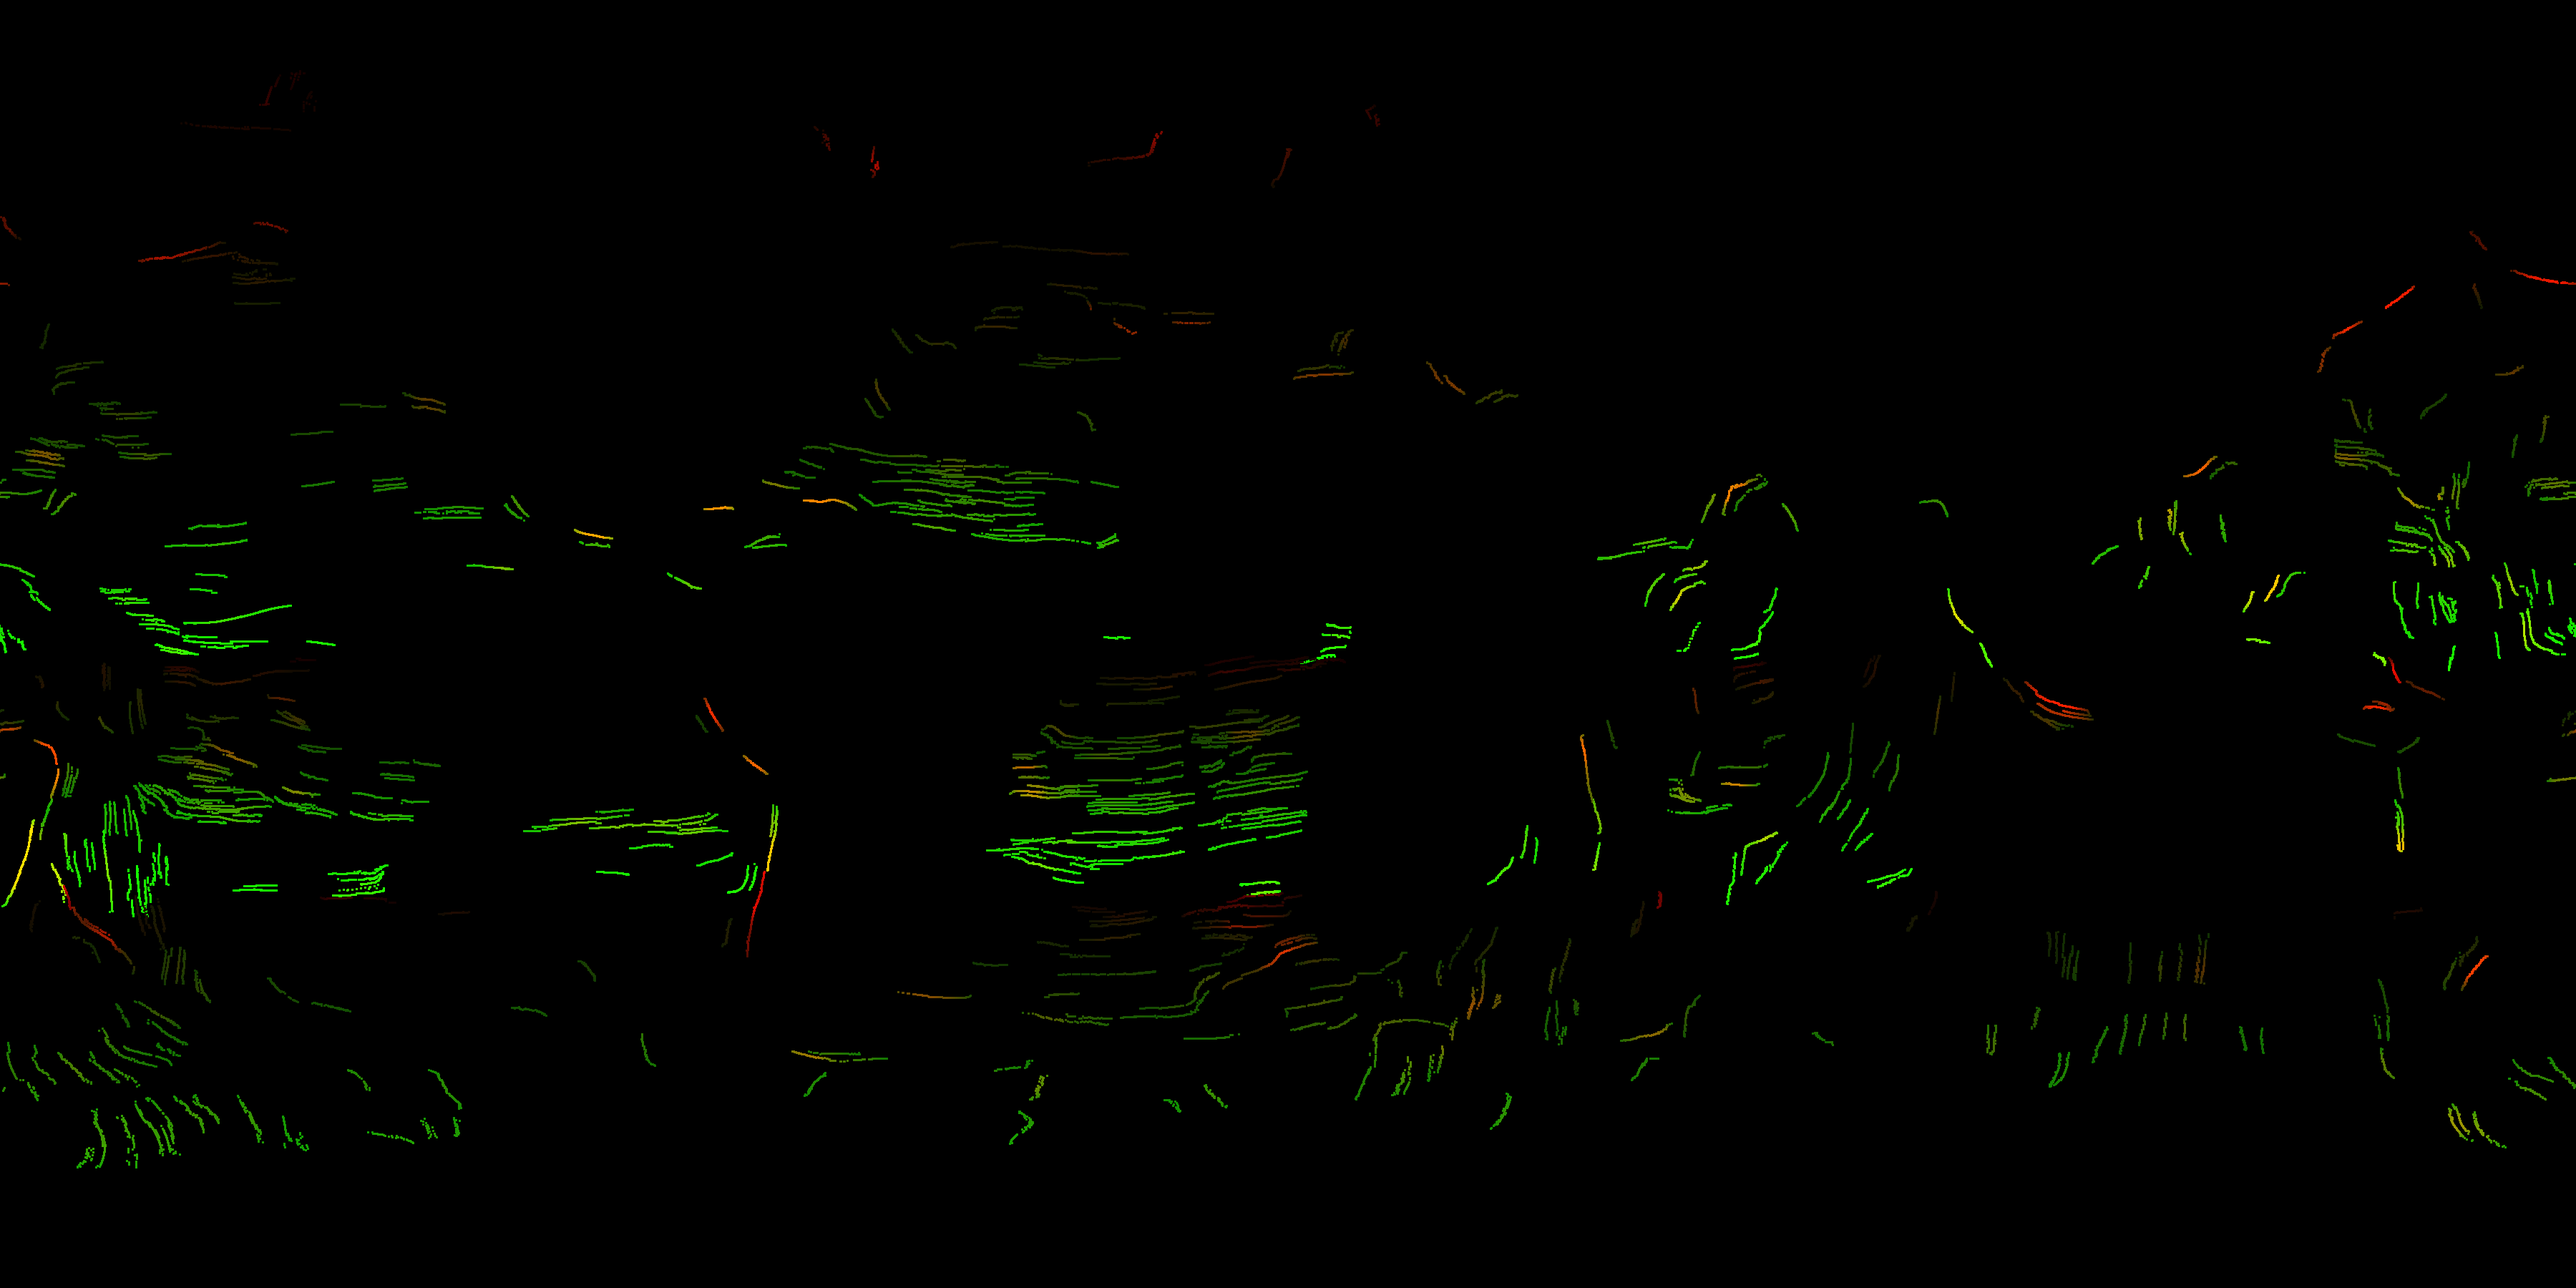
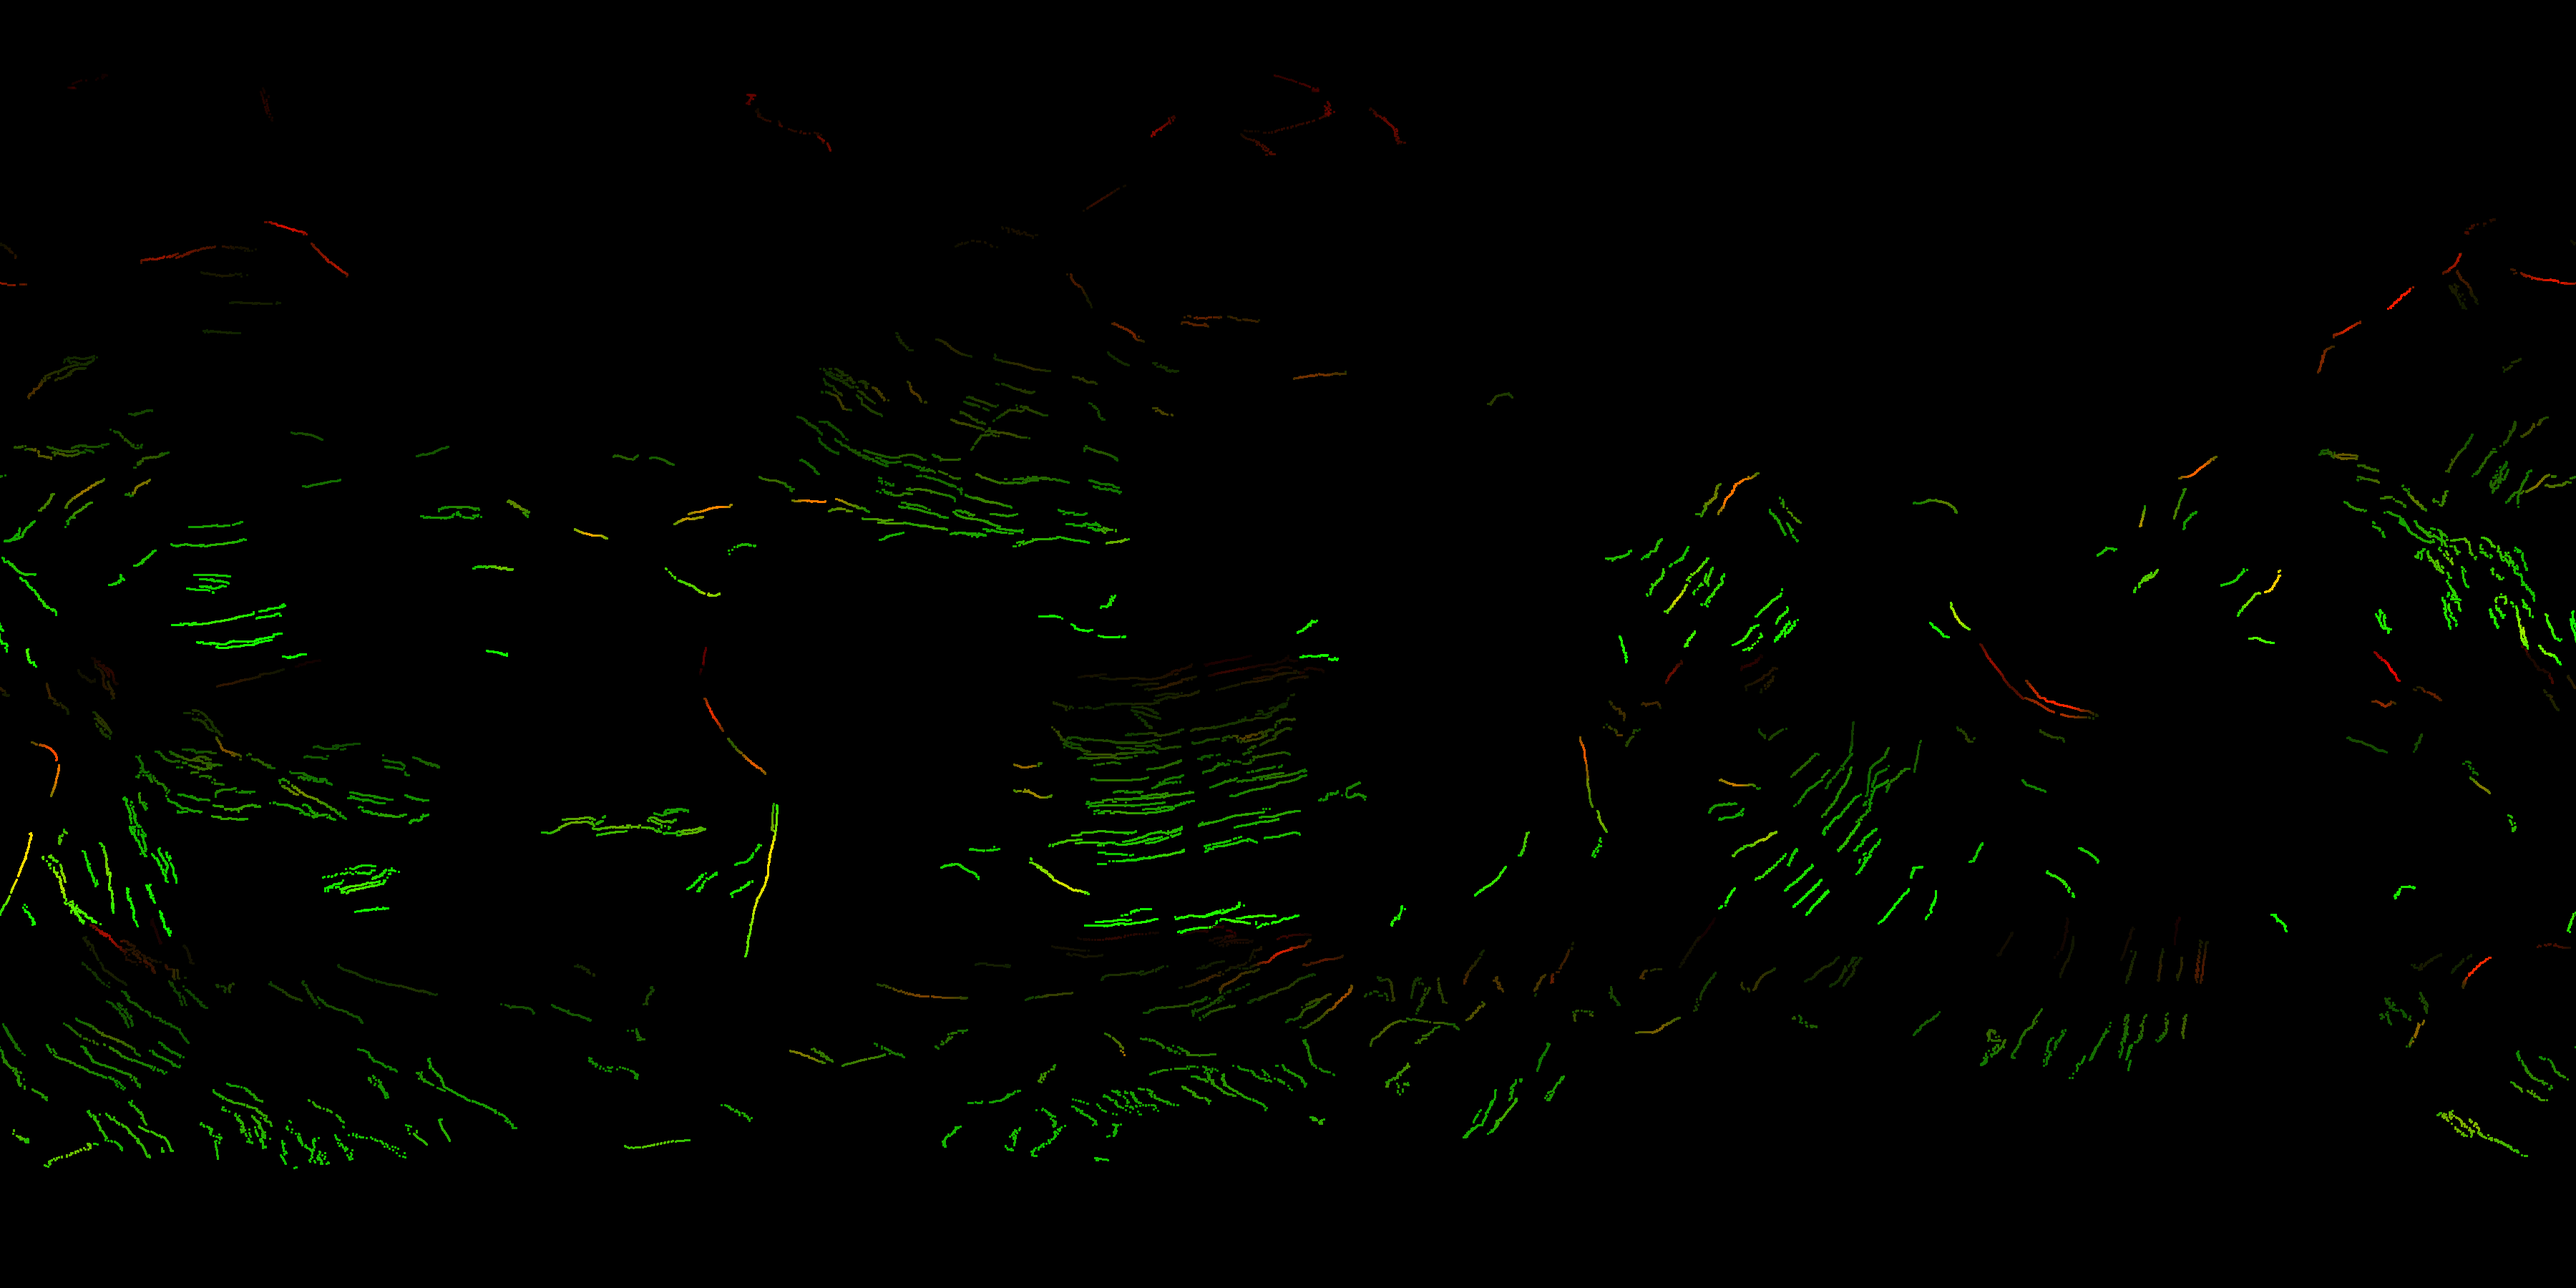
Take the detector's bearing from the sharp field, not the blurred one
A reader marked 27 curves wrong and said most of them run ten or twenty
degrees off the line they can see, or that the line they can see is more
curved. Measured in those units: over all 679 curves the angle against the
sharp lineament under them is a median 25 degrees, and their 27 are 27 --
not worse than the rest. The error is everywhere, and 20 of those 25
degrees are the difference between the two lineament fields themselves.

The walk took its bearing from the field smoothed over a hundred
kilometres, on the reasoning that the sharp axis is too noisy to follow for
hundreds of kilometres and that following it would destroy the continuity
being tested. Reasoned rather than measured, and wrong. Swept over four
scales:

  guide       curves  median   angle, all   the 27   fields differ
  200/100 km     679   569 km        25 deg   27 deg        20 deg
  140/70         696   565 km        24        27           17
  100/50         693   565 km        21        22           12
  60/25          709   559 km        18        19            0

Monotone across all four, and the feared cost does not appear: the curves
stay as long and there are slightly more of them, 458 thousand km of line
against 451. Smoothing a bearing over a hundred kilometres cuts the corner
of everything that bends inside that distance, which is exactly what the
reader saw.

FLIP_TRUTH goes to zero for now, so the detector change is measured on its
[…]

diff --git a/tools/lib/dynamic-mesh.ts b/tools/lib/dynamic-mesh.ts
@@ -361,7 +361,24 @@ export class DynamicMesh {
      * rock between the two ends is gone, so nothing was stretched to bring them
      * together and the length they find is the truth.
      */
-    dirs?: Float32Array, r0?: number): void {
+    dirs?: Float32Array, r0?: number,
+    /**
+     * How far to move the new diagonal's rest length towards the truth, 0 to 1.
+     *
+     * One is the honest answer and it is too honest to apply at once. The
+     * quadrilateral is already deformed when the flip happens, so a diagonal
+     * born at its present-day length pulls immediately, ruins the triangle
+     * quality the flip came to repair, and gets flipped again: 554,332 flips
+     * against 167,016 and 531,398 refused collapses against 46,408, with
+     * folded crust nine times worse and doubled-over crust a hundred times.
+     * The old rule hid that deformation; this exposes all of it in one step,
+     * and how hard the mesh fights back is a measure of how much it was
+     * leaning on the leak.
+     *
+     * A share instead. A given piece of crust is redrawn many times over a
+     * run, so a fraction each time converges on the truth without the shock.
+     */
+    truth = 1): void {
     const lengthOf = (x: number, y: number) =>
       length3(pos[x * 3] - pos[y * 3], pos[x * 3 + 1] - pos[y * 3 + 1],
         pos[x * 3 + 2] - pos[y * 3 + 2])
@@ -392,7 +409,12 @@ export class DynamicMesh {
         rest.set(Math.min(x, y) * width + Math.max(x, y), restEdge[face * 3 + k])
       }
     }
-    rest.set(Math.min(c, d) * width + Math.max(c, d), todayKm(c, d) ?? lengthOf(c, d))
+    {
+      const found = lengthOf(c, d)
+      const today = todayKm(c, d)
+      const born = today === null ? found : found + (today - found) * truth
+      rest.set(Math.min(c, d) * width + Math.max(c, d), born)
+    }
 
     const write = (face: number, x: number, y: number, z: number) => {
       const before = [this.faceVerts[face * 3], this.faceVerts[face * 3 + 1],
@@ -702,6 +724,8 @@ export function retriangulate(
    */
   dirs?: Float32Array,
   r0?: number,
+  /** How far a new diagonal's rest length moves towards the truth; see `flip`. */
+  truth = 1,
 ): number {
   const along: number[] = []
   const order: number[] = []
@@ -740,7 +764,7 @@ export function retriangulate(
         // until this line: the continents stopped travelling because the mesh
         // was absorbing the motion instead of passing it on.
         if (strength && Math.max(strength[found[2]], strength[found[3]]) >= breaksBelow) continue
-        mesh.flip(a, b, found[0], found[1], found[2], found[3], restEdge, pos, dirs, r0)
+        mesh.flip(a, b, found[0], found[1], found[2], found[3], restEdge, pos, dirs, r0, truth)
         flipped++
         did++
         break

diff --git a/tools/build-data.ts b/tools/build-data.ts
@@ -373,10 +373,25 @@ function main() {
   // Detected whether or not anything steers by them, because they are worth
   // looking at: the viewer paints them on the crust so that a reader can put
   // them beside the traced paths and see for themselves whether the two agree.
-  const detected = vgg && lines
+  // One field for both jobs now, the sharp one. It used to walk along the
+  // blurred field on the reasoning that the sharp axis is too noisy to follow
+  // for hundreds of kilometres and that following it would destroy the very
+  // continuity being tested. Reasoned rather than measured, and wrong: swept
+  // over four scales, taking the bearing from the sharp field brings a curve's
+  // angle against the line a reader can see from a median 25 degrees to 18,
+  // and 27 curves a reader marked as wrong from 27 degrees to 19, while the
+  // curves stay just as long -- 709 of them at a median 559 km against 679 at
+  // 569. Smoothing a bearing over a hundred kilometres cuts the corner of
+  // everything that bends inside that distance, which is what the reader saw:
+  // "the line I can see is more curved". See tools/measure-zones.ts, which
+  // sweeps it with GUIDE_WINDOW and GUIDE_SMOOTH.
+  const sharpLines = vgg
+    ? lineaments(vgg, R0_KM, CONFIG.crestWindowKm, CONFIG.crestSmoothKm)
+    : undefined
+  const detected = vgg && lines && sharpLines
     ? fractureZones(
-        lineaments(vgg, R0_KM, CONFIG.crestWindowKm, CONFIG.crestSmoothKm),
-        lines, ageMa, ageFull.width, ageFull.height, R0_KM,
+        sharpLines,
+        sharpLines, ageMa, ageFull.width, ageFull.height, R0_KM,
         {
           alignmentGate: CONFIG.alignmentGate,
           strengthQuantile: CONFIG.strengthQuantile,

diff --git a/tools/solve.ts b/tools/solve.ts
@@ -227,6 +227,17 @@ const CONFIG = {
    * try one.
    */
   islandContactStiffness: Number(process.env.CONTACT_K ?? 0),
+  /**
+   * How far a redrawn edge's rest length moves towards the distance its two
+   * ends really have on today's Earth, 0 to 1.
+   *
+   * Zero is the old rule -- born at whatever length it finds -- which writes
+   * the crust's deformation at that instant into its own rest state, and is
+   * where 77% of all the stretch along the traced fracture zones came from.
+   * One is the honest answer and too abrupt to apply: see the note in
+   * dynamic-mesh.ts flip.
+   */
+  flipRestTruth: Number(process.env.FLIP_TRUTH ?? 0),
   radialStiffness: Number(process.env.RADIAL_K ?? 0.35),
   /** Stop early; for convergence experiments. */
   endMa: Number(process.env.END_MA ?? 0) || undefined,
@@ -1119,6 +1130,7 @@ function main() {
     // from turning inside out.
     flippedTotal += retriangulate(
       mesh, pos, restEdge, CONFIG.flipPasses, rigidity, CONFIG.breaksBelow, dirs, r0,
+      CONFIG.flipRestTruth,
     )
     if (tracing) trace.push(`flips ${stretchNow(t).toFixed(3)}`)
     settleCollapsed()
